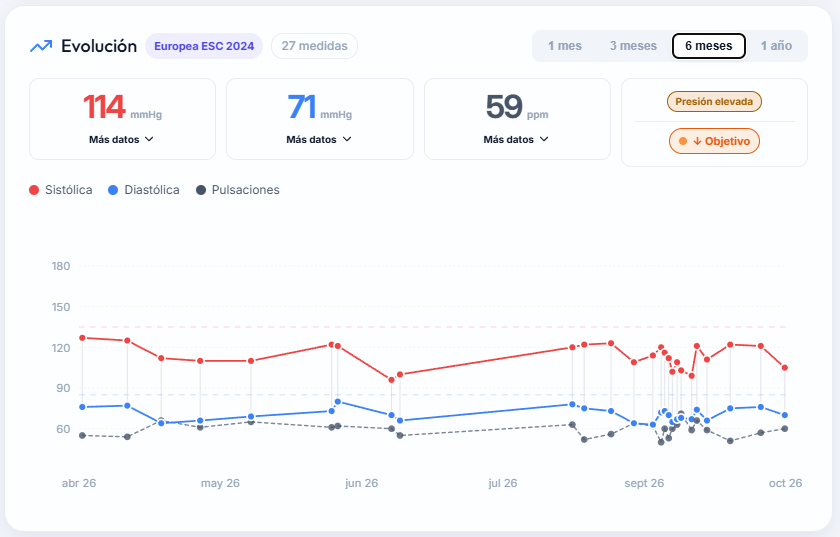
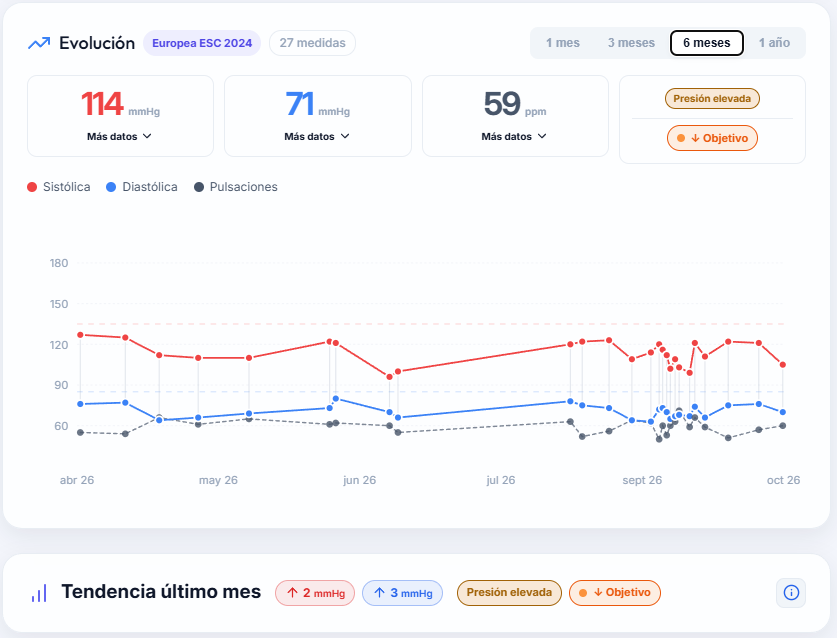
fix: recolocar la captura de evolución del servidor

diff --git a/index.html b/index.html
@@ -110,8 +110,8 @@
         </div>
         <figure class="screenshot-showcase individual-showcase">
           <img class="shot-primary" src="assets/screenshots/offline-nueva-medicion.png" width="686" height="436" loading="lazy" decoding="async" alt="Pantalla de nueva medición de la edición individual offline">
-          <img class="shot-secondary" src="assets/screenshots/offline-evolucion-anual.png" width="849" height="640" loading="lazy" decoding="async" alt="Gráfica de evolución anual de tensión arterial y pulsaciones">
-          <figcaption>Registro de mediciones y evolución anual, disponibles sin conexión.</figcaption>
+          <img class="shot-secondary" src="assets/screenshots/servidor-evolucion.png" width="837" height="638" loading="lazy" decoding="async" alt="Gráfica de evolución, tendencia y patrón de tensión arterial y pulsaciones">
+          <figcaption>Registro de mediciones y análisis de evolución, tendencia y patrón.</figcaption>
         </figure>
       </article>
 
@@ -157,8 +157,8 @@
         </div>
 
         <figure class="screenshot-showcase shared-showcase">
-          <img src="assets/screenshots/servidor-evolucion.png" width="840" height="537" loading="lazy" decoding="async" alt="Gráfica de evolución de la edición con servidor autoalojado">
-          <figcaption>Evolución de las mediciones en el servidor autoalojado, con los datos centralizados bajo tu control.</figcaption>
+          <img src="assets/screenshots/servidor-nueva-medicion.png" width="705" height="531" loading="lazy" decoding="async" alt="Pantalla de nueva medición de la edición con servidor autoalojado">
+          <figcaption>Interfaz del servidor autoalojado, con cuentas y datos centralizados bajo tu control.</figcaption>
         </figure>
       </div>
     </section>

diff --git a/assets/screenshots/README.md b/assets/screenshots/README.md
@@ -3,8 +3,8 @@
 Imágenes utilizadas por la portada:
 
 1. `offline-nueva-medicion.png`: formulario de la edición individual offline.
-2. `offline-evolucion-anual.png`: gráfica de evolución de la edición individual.
-3. `servidor-evolucion.png`: gráfica de evolución de la edición con servidor autoalojado.
+2. `servidor-evolucion.png`: gráfica de evolución, tendencia y patrón.
+3. `servidor-nueva-medicion.png`: formulario de la edición con servidor autoalojado.
 
 Recomendaciones:
 
